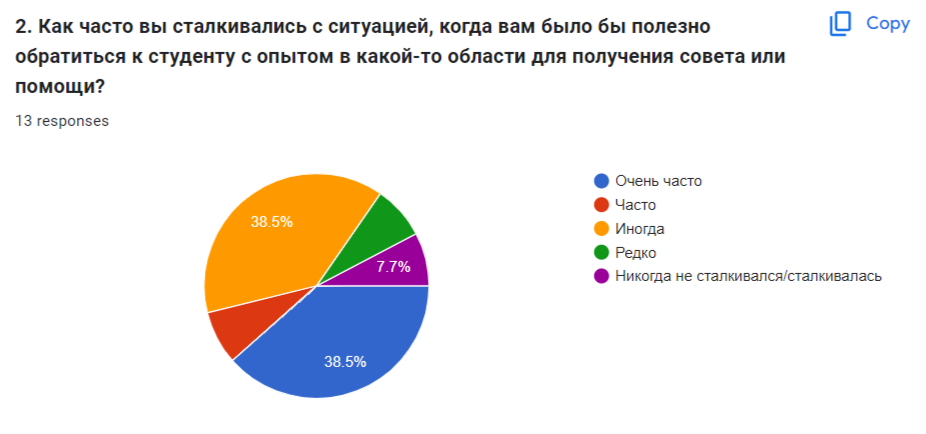
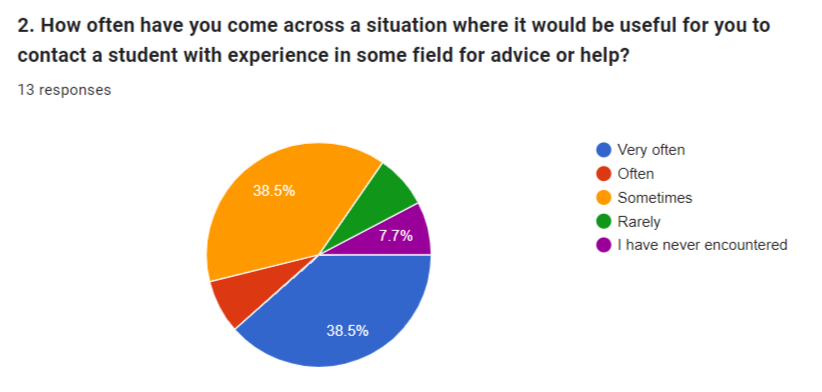
Changed title1, title2, changed appedix A surveys, updated text with times new roman 12

Changed region(s): [[0.0, 0.0306, 1.0, 0.3061], [0.2129, 0.3367, 0.5474, 0.949], [0.6387, 0.3673, 0.9732, 0.6735]]

diff --git a/chapter4.tex b/chapter4.tex
@@ -8,6 +8,7 @@
 
 During the development of our products based on the mutually beneficial exchange of skills and not only this project was divided into some component parts: the \nameref{des} development process starting with wire-frames, pumping the main application design further UX/UI, the process of website design is underway to compile the visual part of the site for mobile adaptation \nameref{front}, beautiful animation, for better interaction on the website, further work is underway on \nameref{back} part is the development of functions for the operation of the site, and this is our registration form, login, chat, rating, user setup, responding to different skills, donation system search process, filters, sorting and much more and the most important deployment of the web hosting project on Amazon Web Service \cite{aws} \nameref{back} is also an \nameref{ios} - based application for mobile phones using the web view function as similar to its analogues kaspi.kz \cite{kaspi}. Let us take a closer look at every aspect of this project, namely web \nameref{des}, mobile development \nameref{ios}, and \nameref{qa} of this product writing test cases, as well as all screenshots the links will be attached below this document in -  \nameref{app:AA}.
 
+\newpage
 \section{User Flow}\label{usrflow}
 Our user flow show \cite{miro} that the simple steps that the user performs in our application.
 The purpose of this user flow \cite{miro} is to give users the opportunity to use our SkillSwap \cite{skillswap} platform in the most effective way.
@@ -28,14 +29,14 @@ The user is prompted to enter a valid email address.
 
 \begin{figure}[ht]\label{fig:userflow1}
   \centering
-  \includegraphics[width=0.8\linewidth]{figures/Userflow -2.png}
-  \caption{The screenshot of our userflow - 1.}
+  \includegraphics[width=1\linewidth]{figures/Userflow -2.png}
+  \caption{First type of userflow.}
 \end{figure}
 
 \begin{figure}[ht]\label{fig:userflow2}
   \centering
   \includegraphics[width=0.8\linewidth]{figures/Userflow - 1.png}
-  \caption{The screenshot of our userflow - 2.}
+  \caption{Second type of userflow.}
 \end{figure}
 
 \newpage
@@ -204,11 +205,8 @@ Form Fields:
  The \nameref{ios} application gives users convenient access to your service functionality on Apple devices, allowing them to interact with the community, share skills, and create new opportunities.System Requirements: Supports \nameref{ios} version 13.0 or higher. Internet connection is also required for the app to work. Install and Run: Users can install it on their devices using the App Store or join the beta testing through TestFlight \cite{testflight}. \textit{User Interface}: The application interface is friendly and intuitive. Users can easily create posts, search for skills or ask questions using simple and straight forward controls. \textit{Application functionality:} Users can register, log in and create posts in various categories such as SkillSwap \cite{skillswap}, Crowdfund and Questions. The app provides the ability to share skills, fundraise for projects and ask questions to the community. \nameref{back} and \nameref{front} integration: The application interacts with the \nameref{back} and \nameref{front}, providing data transfer and request processing via API.
 
 \section{Quality Assurance}\label{qa}
-The testing process of our project began with the implementation of the \nameref{front} carcass. As the \nameref{qa}, we initiated the creation of basic UI test cases to ensure the visual correctness aligns with the approved design by our team. Once the \nameref{back} was implemented and integrated to the \nameref{front} end by our developer, It was decided to provide end-to-end testing to ensure effective validation of each functionality. Meaning of end-to-end testing is conducting tests to every possible user interaction, from registration to login and beyond, across the entirety of the platform.
+The testing process of our project began with the implementation of the \nameref{front} carcass. As the \nameref{qa}, we initiated the creation of basic UI test cases to ensure the visual correctness aligns with the approved design by our team. Once the \nameref{back} was implemented and integrated to the \nameref{front} end by our developer, It was decided to provide end-to-end testing to ensure effective validation of each functionality. Meaning of end-to-end testing is conducting tests to every possible user interaction, from registration to login and beyond, across the entirety of the platform. Subsequently, We conducted mobile testing to assess the platform's responsiveness. Finally, User Acceptance Testing (UAT) was carried out, marking the concluding phase of testing overseen by me. Additionally, routine code reviews and smoke tests were conducted by both our developers and the project manager to ensure quality and functionality
 
-Subsequently, We conducted mobile testing to assess the platform's responsiveness. Finally, User Acceptance Testing (UAT) was carried out, marking the concluding phase of testing overseen by me. Additionally, routine code reviews and smoke tests were conducted by both our developers and the project manager to ensure quality and functionality
-
-\newpage
 \section{Architecture}\label{arch}
 The project is a web application designed to facilitate communication and collaboration between students, allowing them to create posts, ask questions, and participate in skill-based exchanges.
 \begin{enumerate}
@@ -289,6 +287,7 @@ The project is a web application designed to facilitate communication and collab
 \item \textit{The posts} table allows students to create, update, and delete posts. Each post can have an associated application functionality, where students can apply for a post to buy or exchange skills. The table includes columns for description, image, title, and status.
 \end{itemize}
 
+\newpage
 \item \textbf{Questions Table}
 
 \begin{itemize}

diff --git a/chapter3.tex b/chapter3.tex
@@ -1,19 +1,11 @@
 \chapter{Market Analysis}\label{ch:C}
 \section{Competitive Analysis}\label{companl}
 Nowadays, more and more students are looking for platforms that will help them share knowledge and skills, especially students who need help with examples in documentation code, and so on. Online resources such as headhunter.kz \cite{headhunter}, Stackoverflow.com \cite{stackoverlow}, Reddit.com \cite{reddit}.
-\par
-\vspace{0.5cm}
-They offer a wide range of job search, ask questions, answer them, and so on, which allows students to study effectively. However, there is a need for specialized platforms for university students, where they could share knowledge and support joint projects within the university in order to be more effective.
-\par
-\vspace{0.5cm}
-The increasing interest in crowdfunding also points to the need to create a platform that will bring students together to implement their projects with the help of community support or investors.
-\par
-\vspace{0.5cm}
-Thus, the market has the potential to develop an innovative platform that will connect university students and provide them with opportunities to share knowledge, support projects and attract funding through crowdfunding \cite{crowdfunding}, as well as ask questions by answering them, that is, create one large community.
+They offer a wide range of job search, ask questions, answer them, and so on, which allows students to study effectively. However, there is a need for specialized platforms for university students, where they could share knowledge and support joint projects within the university in order to be more effective.The increasing interest in crowdfunding also points to the need to create a platform that will bring students together to implement their projects with the help of community support or investors. Thus, the market has the potential to develop an innovative platform that will connect university students and provide them with opportunities to share knowledge, support projects and attract funding through crowdfunding \cite{crowdfunding}, as well as ask questions by answering them, that is, create one large community.
 
 \begin{figure}[ht]\label{fig:market}
   \centering
-  \includegraphics[width=0.8\linewidth]{figures/market analyse.png}
+  \includegraphics[width=0.75\linewidth]{figures/market analyse.png}
   \caption{Market analyse.}
 \end{figure}
 \newpage

diff --git a/chapter2.tex b/chapter2.tex
@@ -26,9 +26,7 @@ At the beginning of the our project, we conducted some kind of brainstorming, th
   \caption{Scrum sprint + Kanban board.}
 \end{figure}
 
-Agile philosophy \cite{agile} has its own frameworks, the most popular of them is Scrum + Kanban \cite{jira}. We worked on framework which name is scrum, that is, we determined what values the team had and also determined the team's responsibilities. In this case, our team turned into a cross-functional one. Let's take a little look at what a scrum is \cite{scrumguide}. Scrum is a lightweight framework that helps people, teams, and organizations create value through adaptive solutions and to solve complex problems. \textit{Components:} An iterative approach with a team of up to 10 people working in sprints (1 (2) - 4 weeks). Scrum clearly defines values, roles, and procedures that will help employees focus on repetitive work and its continuous improvement.
-\newpage
-Team roles in the scrum team \cite{scrumguide}:
+Agile philosophy \cite{agile} has its own frameworks, the most popular of them is Scrum + Kanban \cite{jira}. We worked on framework which name is scrum, that is, we determined what values the team had and also determined the team's responsibilities. In this case, our team turned into a cross-functional one. Let's take a little look at what a scrum is \cite{scrumguide}. Scrum is a lightweight framework that helps people, teams, and organizations create value through adaptive solutions and to solve complex problems. \textit{Components:} An iterative approach with a team of up to 10 people working in sprints (1 (2) - 4 weeks). Scrum clearly defines values, roles, and procedures that will help employees focus on repetitive work and its continuous improvement.\textbf{Team roles in the scrum team \cite{scrumguide}:}
 
 \begin{itemize}
     \item \textbf{Scrum Master} - ensures compliance with processes in our case this is  (Project Manager).

diff --git a/main.tex b/main.tex
@@ -1,10 +1,8 @@
-\documentclass[a4paper,14pt]{extreport}
-\usepackage[T2A]{fontenc} 
-\usepackage[utf8]{inputenc} 
+\documentclass[a4paper,12pt]{extreport}
 \usepackage{fontspec}
 \setmainfont{Times New Roman}
-\usepackage{float}
 
+\usepackage{float}
 \usepackage[russian,english]{babel}
 \usepackage{csquotes}
 \usepackage{amsmath}
@@ -16,11 +14,13 @@
 \usepackage{ragged2e}
 \usepackage{microtype}
 \usepackage{titlesec}
+
 \usepackage[hidelinks]{hyperref}
 \usepackage[style=numeric]{biblatex}
 \addbibresource{bibliography.bib}
-\usepackage{blindtext}
 
+
+\usepackage{blindtext}
 \usepackage{listings}
 \usepackage{xcolor}
 
@@ -47,18 +47,14 @@
     escapechar=|,
 }
 
-\titleformat{\chapter}[display]
-  {\normalfont\huge\bfseries}{\chaptertitlename\ \thechapter}{14pt}{\Large}
+\setlength{\parindent}{1.25cm} % Установка отступа в 1.25 см
 
-  \titleformat{\chapter}[display]
-{\normalfont\huge\bfseries}{\Large\chaptertitlename\ \thechapter}{14pt}{\Large}
 
 \def\myauthor{Alexandr Ossipov, Daulet Lepessov, Nurlan Darzhanov, Saya Oryskhan}
 \def\mycoach{Ramis Akhmedov, PhD}
 \def\mytitle{The Application of SkillSwap}
 \def\mydegree{Bachelor in Information Systems}
-\def\mydegreecode{6B06101} 
-
+\def\mydegreecode{6B06101 } 
 
 \begin{document}
     \input{titlepage1}
@@ -82,5 +78,5 @@
     \input{appendixA}
     \input{appendixB}
 
-    \printbibliography[heading=bibintoc,title={References}]
+\printbibliography[heading=bibintoc,title={References}]
 \end{document}

diff --git a/chapter1.tex b/chapter1.tex
@@ -12,6 +12,7 @@ In the second article \cite{swatShare}, we found it intriguing that the project 
 \vspace{0.5cm}
 Since we are aiming to embed crowdfunding \cite{crowdfunding} functionality into our project, we found the article "Crowdfunding: Why People Are Motivated to Post and Fund Projects on Crowdfunding Platforms" quite informative. This article provided us with insights into how crowdfunding works from both the creator and funder perspectives. It highlighted how social interactions play a crucial role in creating a feeling of belonging to a community that shares common interests and values, especially among those who fund projects. Additionally, the article discussed the psychological aspects of crowdfunding, highlighting factors such as sympathy, empathy, guilt, happiness, and identity, which influence individuals' motivations for investing money into projects. It also addressed how the framing of a funding request can impact the donation amount and the potential limitations we might encounter in the process.
 
+\newpage
 \section{International and local cases analysis} \label{intandloc}
 
 In the process of brainstorming our project's problem statement, we considered already existing projects created for students to develop a competitive project. We decided to examine six different cases for the three main functionalities of our app: skill sharing, Question Answer, and crowdfunding, with 1 local and 1 international existing solutions for each functionality.

diff --git a/appendixA.tex b/appendixA.tex
@@ -27,37 +27,37 @@
 \begin{figure}[H]\label{fig:survey1}
   \centering
   \includegraphics[width=0.8\linewidth]{figures/Survey question 1.png}
-  \caption{Survey 1.}
+  \caption{Survey question 1.}
 \end{figure}
 \section{Survey Question 2}\label{survqa2}
 \begin{figure}[H]\label{fig:survey2}
   \centering
   \includegraphics[width=0.8\linewidth]{figures/Survey question 2.png}
-  \caption{Survey 2.}
+  \caption{Survey question 2.}
 \end{figure}
 \section{Survey Question 3}\label{survqa3}
 \begin{figure}[H]\label{fig:survey3}
   \centering
   \includegraphics[width=0.8\linewidth]{figures/Survey question 3.png}
-  \caption{Survey 3.}
+  \caption{Survey question 3.}
 \end{figure}
 \section{Survey Question 4}\label{survqa4}
 \begin{figure}[H]\label{fig:survey4}
   \centering
   \includegraphics[width=0.8\linewidth]{figures/Survey question 4.png}
-  \caption{Survey 4.}
+  \caption{Survey question 4.}
 \end{figure}
 \section{Survey Question 5}\label{survqa5}
 \begin{figure}[H]\label{fig:survey5}
   \centering
   \includegraphics[width=0.8\linewidth]{figures/Survey question 5.png}
-  \caption{Survey 5.}
+  \caption{Survey question 5.}
 \end{figure}
 \section{Survey Question 6}\label{survqa6}
 \begin{figure}[H]\label{fig:survey6}
   \centering
   \includegraphics[width=0.8\linewidth]{figures/Survey question 6.png}
-  \caption{Survey 6.}
+  \caption{Survey question 6.}
 \end{figure}
 \section{Low Fidelity Design}\label{lowdesign}
 \begin{figure}[H]\label{fig:lowdesign}

diff --git a/titlepage2.tex b/titlepage2.tex
@@ -5,11 +5,11 @@
 \includegraphics[width=0.2\textwidth]{figures/Log_SDU.png}
 \includegraphics[width=0.23\textwidth]{figures/Faculty.png}
 \vspace{0.5cm}
-\large 
+\Large 
 \par
 \textbf{SDU University} 
 
-\large \textbf{Faculty of Engineering and Natural  Science}
+\Large \textbf{Faculty of Engineering and Natural  Science}
 
 \vspace{2cm}
 \normalsize\hspace{9.5cm} Dean of Faculty \\
@@ -18,24 +18,25 @@
 \normalsize\hspace{9.5cm}«\underline{\hspace{0.5cm}}»\underline{\hspace{4cm}}2024y. \\
 
 \vspace{2cm}
-\large
+\Large
 \textbf{\mytitle}
 \par
 \vspace{0.5cm}
-\normalsize Design and implementation of the university admission platform for high school graduates.\\
-    \vspace{1cm}
-    6B06101 - ``Information Systems''\\
+ \normalsize Design and implementation of the university admission platform for high school graduates.\\
+    \vspace{0.5cm}
+    \mydegreecode - ``Information Systems''\\
+    \normalsize
     \vspace{1cm} 
     \textbf{Supervisor:}\raggedleft \hspace{5cm} Ramis A.\\
     \vspace{0.5cm}
-    \textbf{Student:}\raggedleft \hspace{4.4cm} Alexandr O.\\
+    \textbf{Student:}\raggedleft \hspace{4.5cm} Alexandr O.\\
     \vspace{0.5cm}
     \textbf{Student:}\raggedleft \hspace{5cm} Daulet L.\\ 
     \vspace{0.5cm}
     \textbf{Student:}\raggedleft \hspace{4.9cm} Nurlan D.\\ 
     \vspace{0.5cm}
     \textbf{Student:}\raggedleft \hspace{5.3cm} Saya O.\\ 
-    
+
 \vfill
 Kaskelen, 2024 \centering
 \end{center}

diff --git a/titlepage1.tex b/titlepage1.tex
@@ -3,16 +3,16 @@
 
 \includegraphics[width=0.2\textwidth]{figures/Log_SDU.png}
 \vspace{0.5cm}
-\large 
+\Large 
 \par
 \textbf{SDU University} 
 
-\large 
+\Large 
 \textbf{Faculty of Engineering and Natural  Science}
 
 \vspace{5cm}
 
-\large 
+\Large 
 
 \textbf{\mytitle}
 
@@ -20,18 +20,15 @@
 
 \vspace{0.5cm}
 \normalsize Design and implementation of the university admission platform for high school graduates.
-
 \begin{center}
-\large\textbf{Alexandr Ossipov} \\
+\Large\textbf{Alexandr Ossipov} \\
 \textbf{Daulet Lepessov} \\
 \textbf{Nurlan Darzhanov} \\
 \textbf{Saya Oryskhan}
 \end{center}
 
 \vspace{2cm}
-\large
-
-\normalsize \mydegreecode - “Information Systems”
+\mydegreecode - “Information Systems”
 
 \vfill
 Kaskelen, 2024
